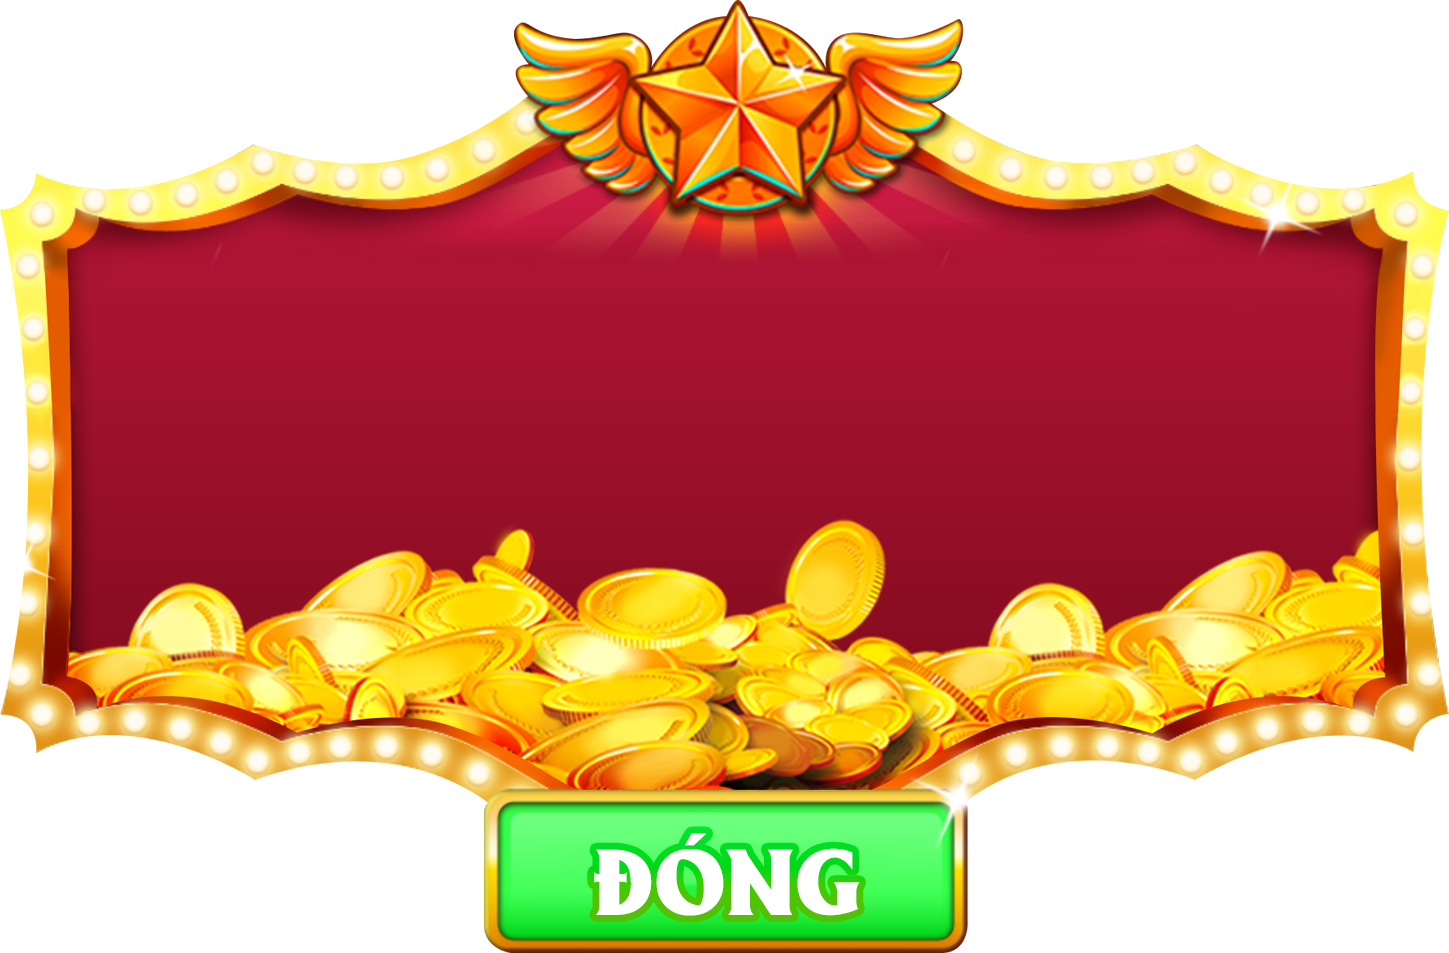
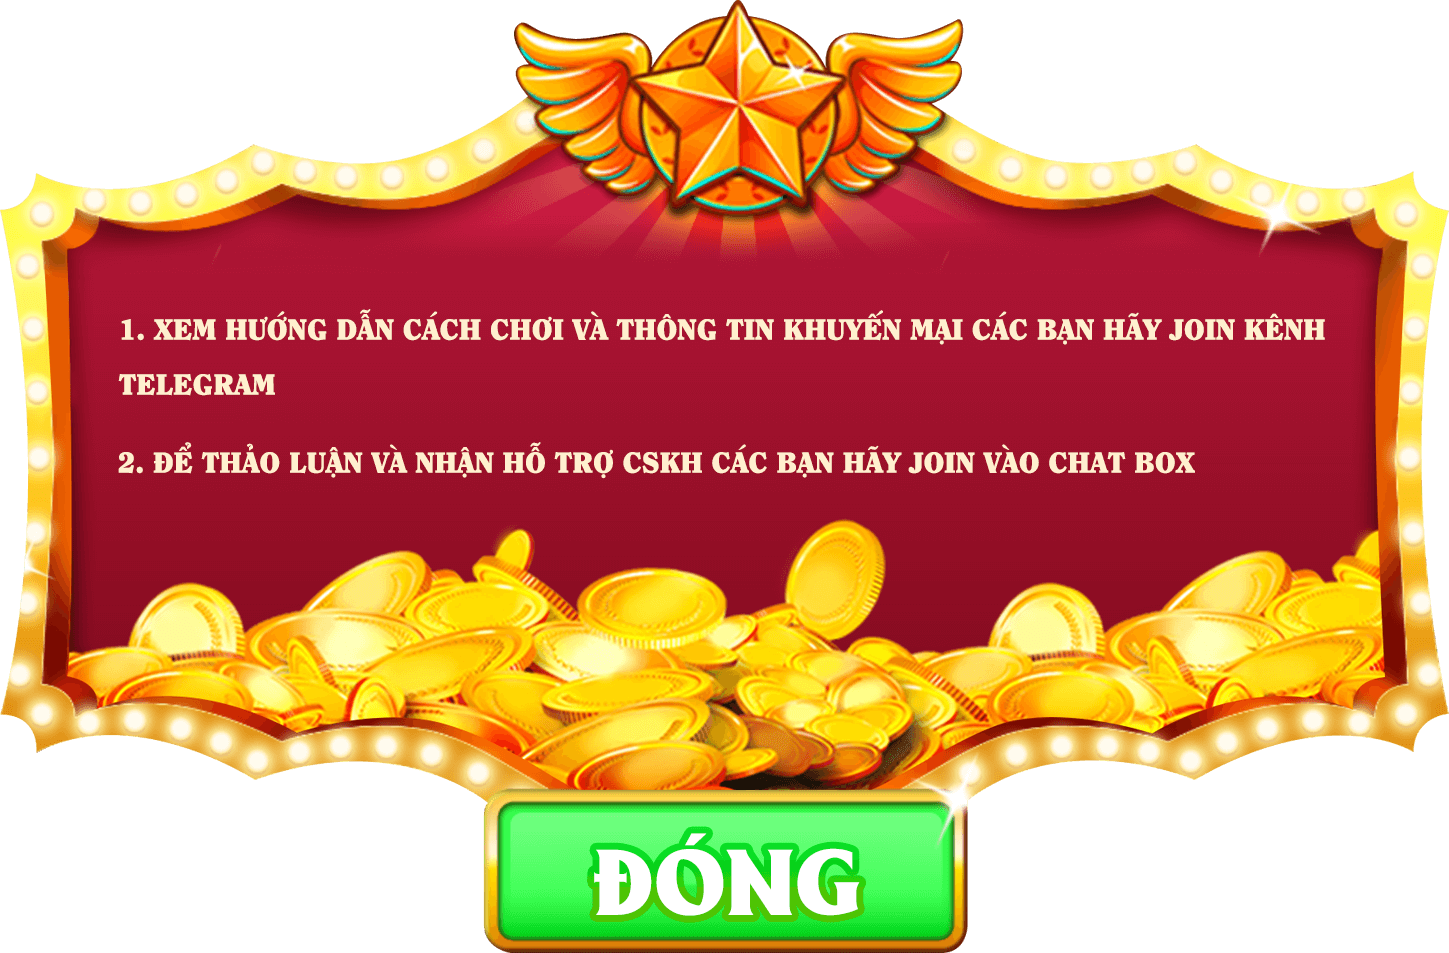
Update images and styles in dialog and telegram components

Changed region(s): [[0.0621, 0.4565, 0.8385, 0.5173], [0.0621, 0.3347, 0.9317, 0.3652], [0.0621, 0.3956, 0.1863, 0.426]]

diff --git a/nuxt.config.ts b/nuxt.config.ts
@@ -3,7 +3,7 @@ import vuetify from 'vite-plugin-vuetify'
 // https://nuxt.com/docs/api/configuration/nuxt-config
 export default defineNuxtConfig({
   // using ssr: false will not face with this issue https://github.com/nuxt/framework/issues/8825
-  ssr: false,
+  ssr: true,
   app: {
     head: {
       title: 'CHẴN LẺ BANK UY TÍN - CLMM',
@@ -14,10 +14,24 @@ export default defineNuxtConfig({
             '@context': 'https://schema.org',
             '@type': 'chanlebank',
             name: 'Home',
-            description: 'Your site description',
             url: 'https://chanlebank.page',
           }),
         },
+        {
+          hid: 'gtag',
+          src: 'https://www.googletagmanager.com/gtag/js?id=G-KPELED6F1W',
+          async: true
+        },
+        {
+          hid: 'gtag-inline',
+          innerHTML: `
+          window.dataLayer = window.dataLayer || [];
+          function gtag(){dataLayer.push(arguments);}
+          gtag('js', new Date());
+          gtag('config', 'G-KPELED6F1W');
+        `,
+          type: 'text/javascript'
+        }
       ],
       htmlAttrs: {
         lang: 'ja',

diff --git a/components/telegram/section.vue b/components/telegram/section.vue
@@ -25,12 +25,6 @@ const closeDialog = () => {
 		<div class="chat">
 			<img src="~/assets/images/ChatBox.png" alt="" @click="joinTelegram(chat)">
 		</div>
-
-		<div class="infor">
-			<p>1: XEM HƯỚNG DẪN CÁCH CHƠI VÀ THÔNG TIN KHUYẾN MẠI CÁC BẠN HÃY JOIN KÊNH TELEGRAM</p>
-			<p>2: ĐỂ THẢO LUẬN VÀ NHẬN HỖ TRỢ CSKH CÁC BẠN HÃY JOIN VÀO CHAT BOX</p>
-		</div>
-
 		<div class="btn-close" @click="closeDialog">
 		</div>
 	</div>
@@ -63,17 +57,6 @@ const closeDialog = () => {
 		top: 54%;
 		left: 54%;
 		width: 30%;
-	}
-
-	.infor {
-		position: absolute;
-		top: 30%;
-		text-align: left;
-		font-size: 2vw;
-		color: #fff;
-		width: 80%;
-		font-weight: 900;
-		font-family: 'Segoe UI', Tahoma, Geneva, Verdana, sans-serif;
 	}
 
 	.btn-close {

diff --git a/pages/tele/chanel.vue b/pages/tele/chanel.vue
@@ -12,7 +12,8 @@ useHead({
     </h3>
     <div class="subpage-wrapper">
       <p class="label">Tham Gia Chanel Để Có Thêm Nhiều Thông Tin Hơn Về Game</p>
-      <p class="text-center mb-4 link"><a class="lnk__btn" href="https://t.me/clmmsupport" target="_blank">THAM GIA
+      <p class="text-center mb-4 link"><a class="lnk__btn" href="https://t.me/chanlebankpagenews" target="_blank">THAM
+          GIA
           NGAY</a></p>
     </div>
   </div>

diff --git a/pages/tele/group.vue b/pages/tele/group.vue
@@ -12,7 +12,7 @@ useHead({
     </h3>
     <div class="subpage-wrapper">
       <p class="label">Tham Gia Group Để Tìm Kiếm Các Đồng Đội Trong Game</p>
-      <p class="text-center mb-4 link"><a class="lnk__btn" href="https://t.me/clmmnews" target="_blank">THAM GIA
+      <p class="text-center mb-4 link"><a class="lnk__btn" href="https://t.me/chanlebankpage" target="_blank">THAM GIA
           NGAY</a></p>
     </div>
   </div>

diff --git a/components/dialog/message.vue b/components/dialog/message.vue
@@ -1,11 +1,11 @@
 <script lang="ts" setup>
+import { storeToRefs } from 'pinia'
+
 const props = defineProps<{
   message: string
 }>()
 
 const message = computed(() => props.message)
-
-import { storeToRefs } from 'pinia'
 
 const dialogConfirmStore = useDialogConfirmStore()
 const { isShowMessageGame } = storeToRefs(dialogConfirmStore)
